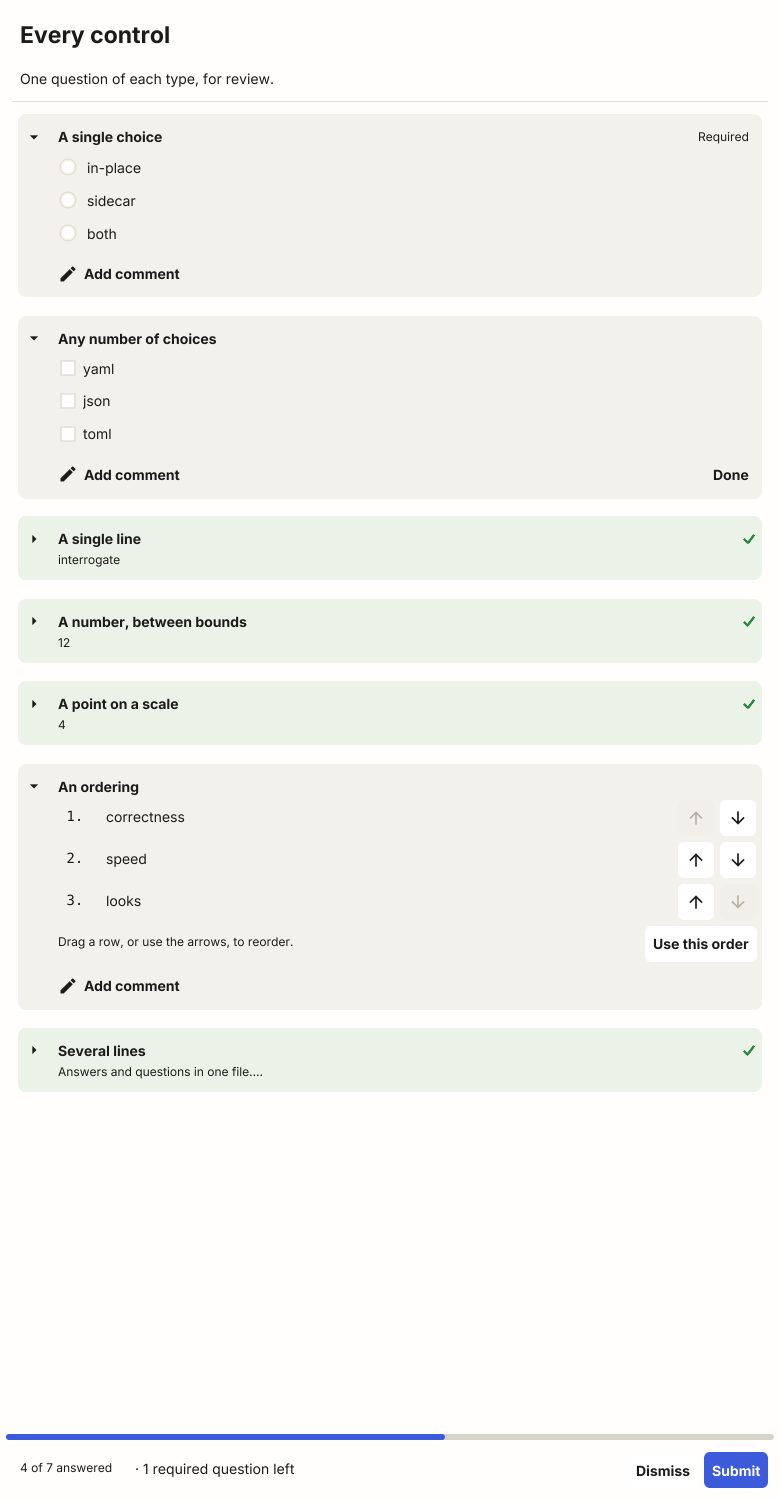
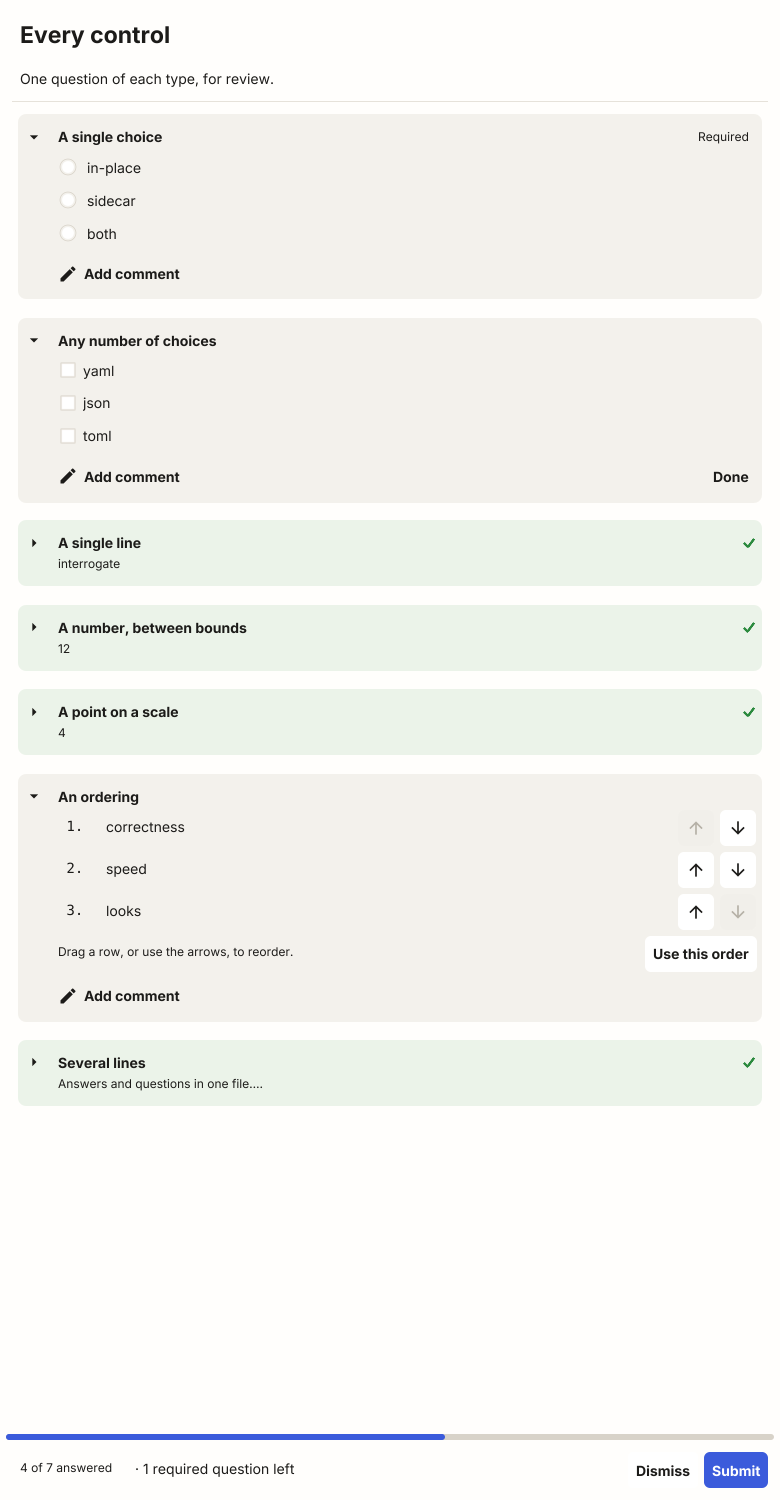
Pad a card so that it looks even, not so that it is
Your eye was right. Everything the layouts measure in is a text box, and
a text box carries the room a capital needs above the letters and the
room a descender needs below. Pad a card equally and the eye -- which
reads the space above the capitals against the space from the baseline
below -- sees the bottom as tight. Rendered, it was 18 pixels above the
text and 12 to 16 below.

The card now takes a little more underneath than over, which brings the
two to within a pixel.

The test for it reads the rendered pixels rather than the boxes, because
the boxes were already even and said nothing was wrong. Its fixture ends
on lines without descenders on purpose: a descender is ink the eye does
not count as the edge of the text. Setting the extra back to zero fails
it.

diff --git a/internal/ui/padding_test.go b/internal/ui/padding_test.go
@@ -1,0 +1,133 @@
+package ui
+
+import (
+	"image"
+	"testing"
+
+	"fyne.io/fyne/v2"
+	"fyne.io/fyne/v2/test"
+)
+
+// A card's padding has to look even, which is not the same as being even.
+//
+// Every measurement the layouts work in is a text box, and a text box carries
+// the room a capital needs above the letters and the room a descender needs
+// below. Pad a card equally and the eye -- which reads the space above the
+// capitals against the space below the baseline -- sees the bottom as tight.
+// So this test reads the rendered pixels rather than the boxes.
+//
+// The fixture's last lines carry no descenders, deliberately: a descender is
+// ink the eye does not count as the edge of the text.
+func TestACardsPaddingLooksEven(t *testing.T) {
+	restore := useTheme(t, newTheme())
+	defer restore()
+
+	f, doc := build(t, `
+title: t
+questions:
+  - id: folded
+    type: select
+    prompt: Which of these is NOT one of the three elements a claimant must establish?
+    required: true
+    options: [A duty of care, An intention to cause harm]
+    answer: An intention to cause harm
+  - id: open
+    type: select
+    prompt: A shop displays a jacket in its window. In contract law, what is the ruling?
+    required: true
+    options: [An offer, An invitation to treat]
+`)
+	content := f.build()
+	win := test.NewWindow(content)
+	defer win.Close()
+
+	// Twice over, so the prompts have settled their wrapping before the pixels
+	// are read: the first pass is what tells them how wide they are.
+	win.Resize(fyne.NewSize(780, 900))
+	win.Resize(fyne.NewSize(780, 901))
+	win.Resize(fyne.NewSize(780, 900))
+
+	img := win.Canvas().Capture()
+	scale := float32(img.Bounds().Dx()) / 780
+
+	for _, q := range doc.Questions {
+		c := f.cards[q.ID]
+		top, left := positionOn(content, c.card)
+		size := c.card.Size()
+
+		x0, x1 := int(left*scale)+1, int((left+size.Width)*scale)-1
+		y0, y1 := int(top*scale), int((top+size.Height)*scale)
+
+		first, last, ok := inkRows(img, x0, x1, y0, y1)
+		if !ok {
+			t.Fatalf("%s: the card drew nothing", q.ID)
+		}
+
+		above := float32(first-y0) / scale
+		below := float32(y1-last-1) / scale
+		if diff := above - below; diff > 2 || diff < -2 {
+			t.Errorf("%s: %v of card above the text and %v below it", q.ID, above, below)
+		}
+	}
+}
+
+// positionOn is where an object sits within root.
+func positionOn(root, target fyne.CanvasObject) (top, left float32) {
+	var walk func(o fyne.CanvasObject, y, x float32) bool
+	walk = func(o fyne.CanvasObject, y, x float32) bool {
+		if o == nil {
+			return false
+		}
+		y += o.Position().Y
+		x += o.Position().X
+		if o == target {
+			top, left = y, x
+			return true
+		}
+		switch p := o.(type) {
+		case *fyne.Container:
+			for _, child := range p.Objects {
+				if walk(child, y, x) {
+					return true
+				}
+			}
+		case fyne.Widget:
+			for _, child := range test.WidgetRenderer(p).Objects() {
+				if walk(child, y, x) {
+					return true
+				}
+			}
+		}
+		return false
+	}
+	walk(root, 0, 0)
+	return top, left
+}
+
+// inkRows reports the first and last rows in the box holding a pixel unlike the
+// card behind it.
+func inkRows(img image.Image, x0, x1, y0, y1 int) (first, last int, ok bool) {
+	for y := y0; y < y1; y++ {
+		// The card's own colour, read from the far right of the row, where a
+		// question draws nothing.
+		br, bg, bb, _ := img.At(x1-2, y).RGBA()
+		for x := x0; x < x1; x++ {
+			r, g, b, _ := img.At(x, y).RGBA()
+			if channelDiff(r, br)+channelDiff(g, bg)+channelDiff(b, bb) > 0x6000 {
+				if !ok {
+					first, ok = y, true
+				}
+				last = y
+				break
+			}
+		}
+	}
+	return first, last, ok
+}
+
+func channelDiff(a, b uint32) uint32 {
+	if a > b {
+		return a - b
+	}
+	return b - a
+}

diff --git a/internal/ui/form.go b/internal/ui/form.go
@@ -258,7 +258,7 @@ func (f *form) buildCard(q *questionnaire.Question) *card {
 	// The card and the gap around it do the separating a hairline rule was
 	// failing to do, so the separator goes: a card edge and a rule together
 	// only look fussy.
-	c.card = newCardBox(container.NewPadded(
+	c.card = newCardBox(container.New(cardPadding(),
 		container.New(&cardStack{gap: headerBodyGap}, c.header, c.body)))
 	c.header.SetHoverReporter(c.card.SetHovered)
 	c.root = container.NewPadded(c.card)
@@ -299,6 +299,22 @@ func alignInk(control fyne.CanvasObject, ink float32) fyne.CanvasObject {
 		return control
 	}
 	return container.New(layout.NewCustomPaddedLayout(0, 0, shift, 0), control)
+}
+
+// cardOpticalTail is the extra space under a card's last line.
+//
+// Even padding measured from the text's box does not look even. A line box
+// carries the room a capital needs above the letters and the room a descender
+// needs below, and the eye reads the space to the capitals at the top against
+// the space from the baseline at the bottom -- so a card padded equally reads
+// as tight underneath. This is the difference, and it is why the bottom padding
+// is deliberately not the same number as the top.
+const cardOpticalTail = 2
+
+// cardPadding is the space between a card's edge and the question inside it.
+func cardPadding() fyne.Layout {
+	pad := theme.Size(theme.SizeNamePadding)
+	return layout.NewCustomPaddedLayout(pad, pad+cardOpticalTail, pad, pad)
 }
 
 // headerBodyGap is the space between a question's prompt and the controls
